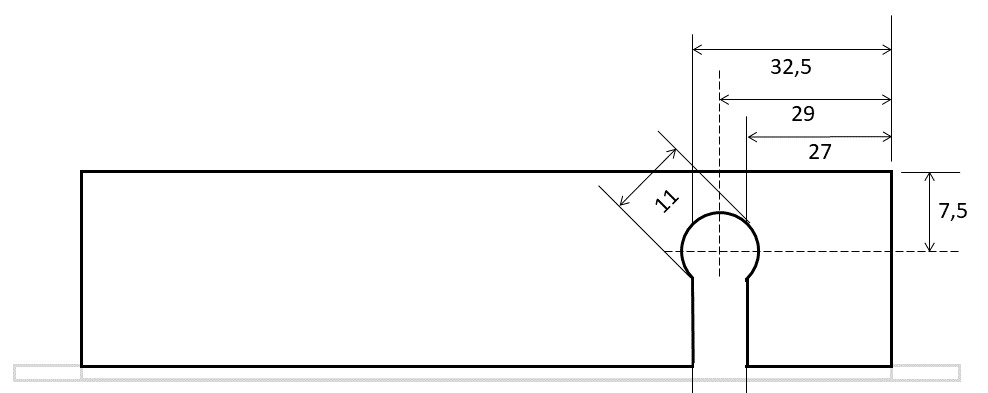
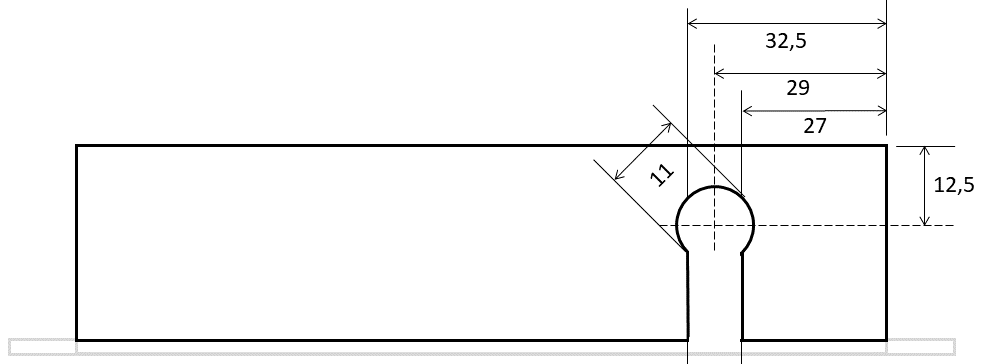
Added images and updates

Changed region(s): [[0.0, 0.0302, 0.9756, 0.9973], [0.9451, 0.4835, 1.0, 0.5742], [0.7012, 0.0604, 0.7317, 0.0907]]

diff --git a/hardware/esp32-p1-node-housing/README.md b/hardware/esp32-p1-node-housing/README.md
@@ -1,10 +1,14 @@
 # P1-LoRaWAN sensor Housing
-The P1-Sensor is constructed for a Hammond 1591XXBSFL Enclosure. This enclosure is a black RAL 7011 Flanged enclosure with the dimensions 113.82 x 63.32 x 28.25 mm.
-The PCB, that is screwed using parkers, to the flanged lid of the box, is holding all components and connectors together so that only holes shall be made in the box at the required positions.
+The P1-Sensor is constructed for a Hammond 1591XXBSFL Enclosure. This enclosure is a black RAL 7011 Flanged enclosure with the dimensions 113.82 x 63.32 x 28.25 mm. The PCB, that is screwed using parkers, to the flanged lid of the box, is holding all components and connectors together so that only holes shall be made in the box at the required positions.
+
 As the TTGO LORA32 has an Oled display the box shall be given a window so that the information on the display can be read. Because manually created holes in PVC or ABS are difficult to make with smooth and straight edges, a 3D-printed PLA frame is used as a cover around the window trough wchich the display can be viewed.
+
 This document will describe all measures for aproperiate holes in the flanged Hammond box and the files for the 3D printed frame.
 
 ## Dimensions of holes
+This paragraph will present schematics of all dimensions and measures of the holes that shall be applied to the Hammond box.
+
+
 
 ### Bottom side
 
